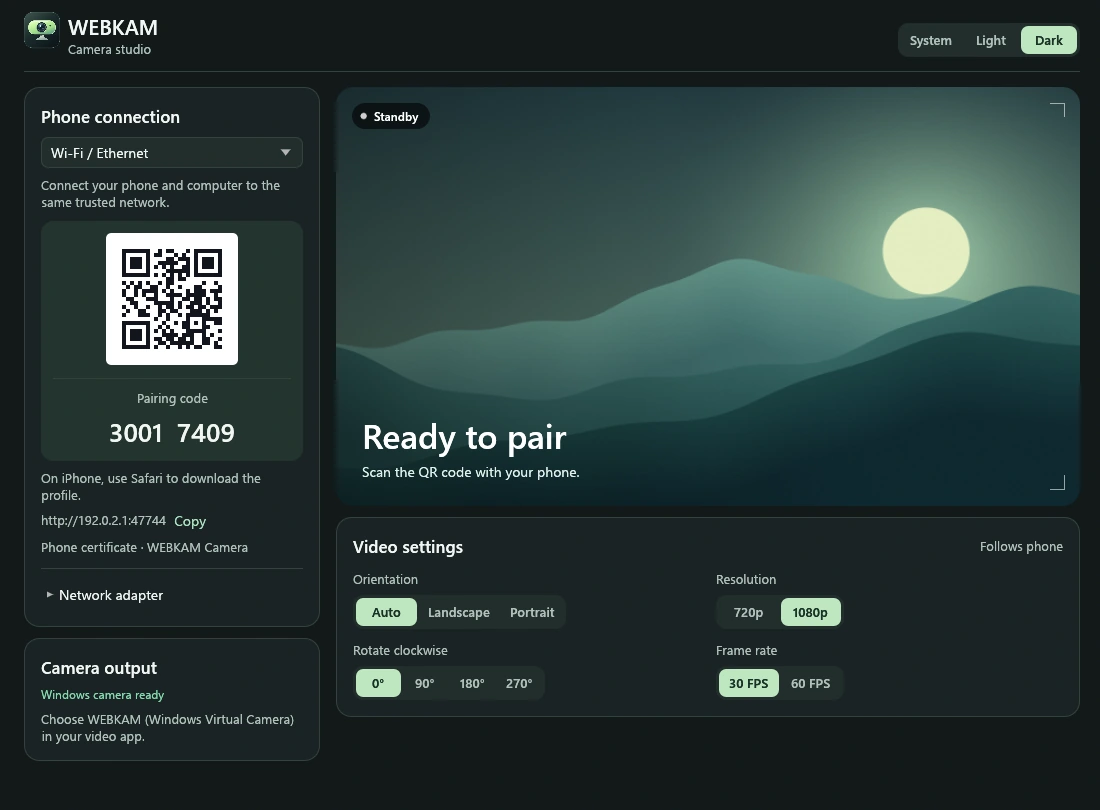
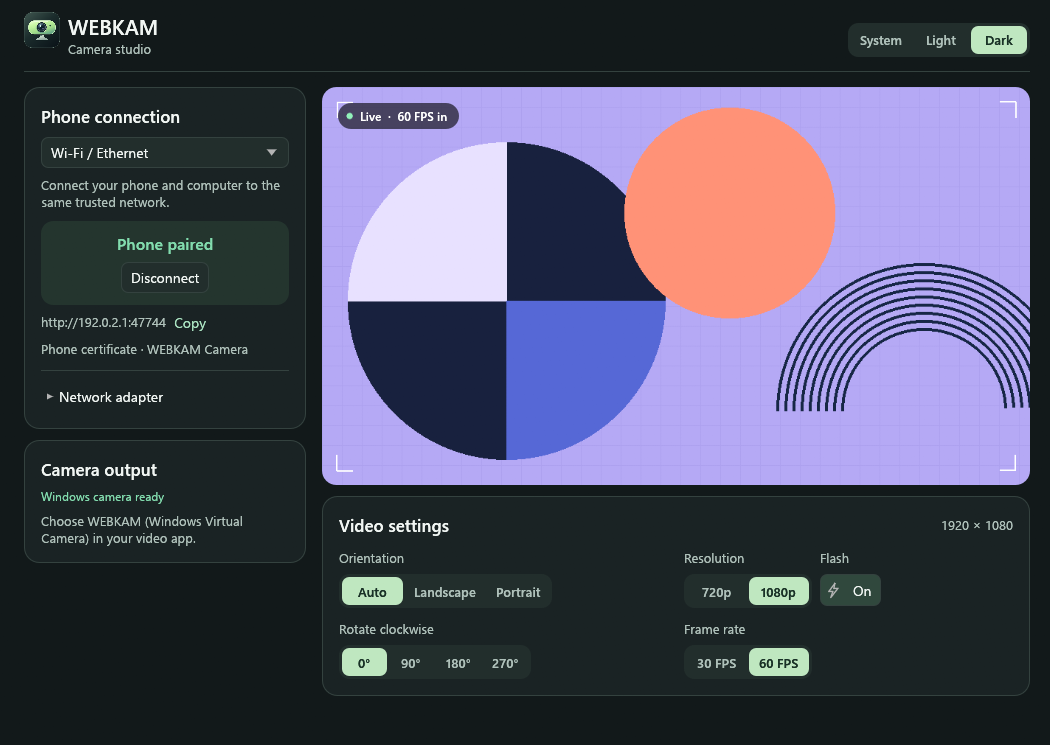
Show rear Flash and front Screen light in the product screenshots

diff --git a/docs/index.html b/docs/index.html
@@ -125,18 +125,18 @@
                 <div class="product-pair">
                   <div class="desktop-shell">
                     <img
-                      src="media/desktop.webp?v=1"
-                      width="1100"
-                      height="810"
-                      alt="Camera Studio on Windows with the standby landscape, pairing sidebar and video controls."
+                      src="media/desktop.webp?v=lighting-1"
+                      width="1050"
+                      height="745"
+                      alt="Windows Camera Studio streaming a sample chart with the rear Flash button set to On beside Resolution."
                     />
                   </div>
                   <div class="phone-shell">
                     <img
-                      src="media/phone.webp?v=1"
+                      src="media/phone.webp?v=lighting-1"
                       width="780"
                       height="1420"
-                      alt="WEBKAM on iPhone showing its camera lens picker, stream controls and floating preview button."
+                      alt="iPhone viewfinder with Front Camera selected and Screen light active on a white display."
                     />
                   </div>
                 </div>
@@ -189,8 +189,8 @@
             <div class="panel-intro">
               <h3>Take control of the shot.</h3>
               <p>Pair your phone, then open Video settings. New in v1.0.1, the lightning bolt beside Resolution lets you switch the phone light on or off during a call.</p>
-              <a class="tour-reference" href="media/desktop.webp?v=1">
-                See the Windows app <svg class="icon" aria-hidden="true"><use href="#expand" /></svg>
+              <a class="tour-reference" href="media/desktop.webp?v=lighting-1">
+                See rear Flash on Windows <svg class="icon" aria-hidden="true"><use href="#expand" /></svg>
               </a>
             </div>
             <div class="demo-console" data-demo="desktop">
@@ -230,8 +230,8 @@
             <div class="panel-intro">
               <h3>Frame it on your phone.</h3>
               <p>Use Flash to turn on a supported rear torch. Switch to the front camera and Screen light turns the display white to light your face. Control the light from your phone or computer.</p>
-              <a class="tour-reference" href="media/phone.webp?v=1">
-                See the phone app <svg class="icon" aria-hidden="true"><use href="#expand" /></svg>
+              <a class="tour-reference" href="media/phone.webp?v=lighting-1">
+                See Screen light on iPhone <svg class="icon" aria-hidden="true"><use href="#expand" /></svg>
               </a>
             </div>
             <div class="demo-phone-stage">
@@ -373,15 +373,15 @@
               </div>
             </li>
             <li class="setup-step phone-step">
-              <a class="step-art" href="media/phone.webp?v=1" aria-label="Enlarge the phone camera example">
+              <a class="step-art" href="media/phone.webp?v=lighting-1" aria-label="Enlarge the phone camera example">
                 <span class="qr-slip" aria-hidden="true"><i></i>Sample QR</span>
                 <span class="setup-handset"
                   ><img
-                    src="media/phone.webp?v=1"
+                    src="media/phone.webp?v=lighting-1"
                     width="780"
                     height="1420"
                     loading="lazy"
-                    alt="WEBKAM on iPhone showing the camera feed, lens selector and stream controls."
+                    alt="iPhone front camera streaming a sample chart with Screen light switched on."
                 /></span>
                 <span class="art-expand" aria-hidden="true"
                   ><svg class="icon"><use href="#expand" /></svg

diff --git a/README.md b/README.md
@@ -23,10 +23,10 @@ Use your iPhone or Android as a webcam over Wi-Fi or supported USB connections. 
 <table>
   <tr><th align="left">Windows receiver</th><th align="left">iPhone companion</th></tr>
   <tr>
-    <td width="72%" align="center"><a href="docs/media/desktop.webp"><img src="docs/media/desktop.webp" width="690" alt="Camera Studio in dark mode with its standby landscape, pairing code and video controls"></a></td>
-    <td width="28%" align="center"><a href="docs/media/phone.webp"><img src="docs/media/phone.webp" width="184" alt="Mobile viewfinder with a sample camera feed, lens picker and flash control"></a></td>
+    <td width="72%" align="center"><a href="docs/media/desktop.webp?raw=true&amp;v=lighting-1"><img src="docs/media/desktop.webp?raw=true&amp;v=lighting-1" width="690" alt="Windows receiver showing the rear Flash button set to On beside Resolution"></a></td>
+    <td width="28%" align="center"><a href="docs/media/phone.webp?raw=true&amp;v=lighting-1"><img src="docs/media/phone.webp?raw=true&amp;v=lighting-1" width="184" alt="iPhone with Front Camera selected, Screen light active and a white display surrounding the sample feed"></a></td>
   </tr>
-  <tr><td>Use the sidebar to pair. In narrow windows, switch between Connection and Video settings below the preview.</td><td>Choose a lens or switch the light on while streaming. Use Flash for a supported rear camera or Screen light for the front camera.</td></tr>
+  <tr><td><strong>Rear camera.</strong> Flash is on in Video settings, beside Resolution.</td><td><strong>Front camera.</strong> Screen light is on. The white display lights your face.</td></tr>
 </table>
 
 The desktop receiver, mobile companions and iPhone Home Screen app share light and dark themes. The screenshots use example pairing details and a sample camera feed. Select a screenshot for the full image, or [explore the pairing screen and framing demo](https://iamo3.github.io/WEBKAM/#panel-pairing).
